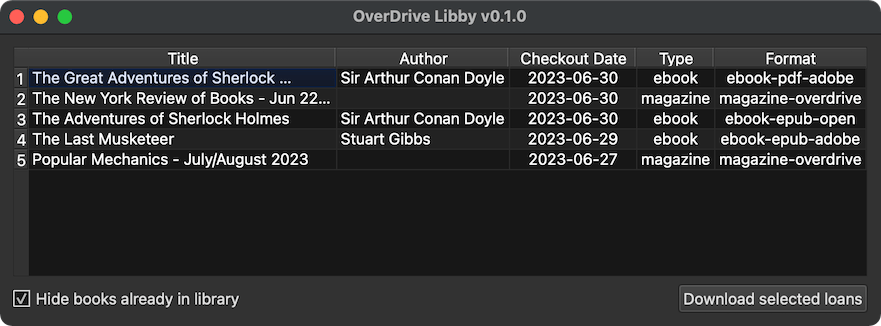
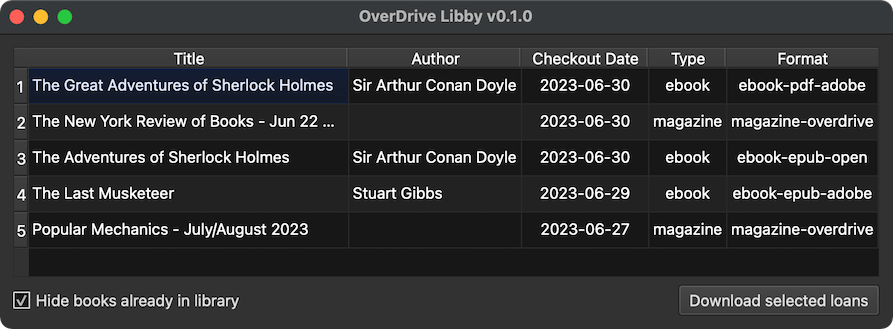
Tweak loans view

diff --git a/calibre-plugin/action.py b/calibre-plugin/action.py
@@ -108,7 +108,7 @@ class OverdriveLibbyDialog(QDialog):
 
         if libby_token:
             self.client = LibbyClient(
-                identity_token=libby_token, max_retries=1, timeout=60, logger=logger
+                identity_token=libby_token, max_retries=1, timeout=30, logger=logger
             )
             loans = self.client.get_loans()
 
@@ -149,12 +149,13 @@ class OverdriveLibbyDialog(QDialog):
             4, QHeaderView.ResizeMode.ResizeToContents
         )
         self.loans_view.setSelectionBehavior(QAbstractItemView.SelectRows)
-        self.resize_row_height()
+        self.loans_view.sortByColumn(-1, Qt.AscendingOrder)
         self.layout.addWidget(self.loans_view, 0, 0, 3, loan_view_span)
         label_column_widths.append(self.layout.itemAtPosition(0, 0).sizeHint().width())
 
         self.download_btn = QPushButton(_("Download selected loans"), self)
         self.download_btn.setAutoDefault(False)
+        self.download_btn.setStyleSheet("padding: 4px 8px")
         self.download_btn.clicked.connect(self.download_selected_loans)
         self.layout.addWidget(self.download_btn, 4, loan_view_span - 1)
         label_column_widths.append(
@@ -177,16 +178,10 @@ class OverdriveLibbyDialog(QDialog):
 
         self.resize(self.sizeHint())
 
-    def resize_row_height(self):
-        row_height = self.loans_view.horizontalHeader().height()
-        for row_number in range(0, self.loans_view.model().rowCount()):
-            self.loans_view.setRowHeight(row_number, row_height)
-        self.loans_view.sortByColumn(-1, Qt.AscendingOrder)
-
     def set_hide_books_already_in_library(self, checked):
         PREFS[KEY.HIDE_BOOKS_ALREADY_IN_LIB] = checked
         self.model.set_filter_hide_books_already_in_library(checked)
-        self.resize_row_height()
+        self.loans_view.sortByColumn(-1, Qt.AscendingOrder)
 
     def download_selected_loans(self):
         selection_model = self.loans_view.selectionModel()
